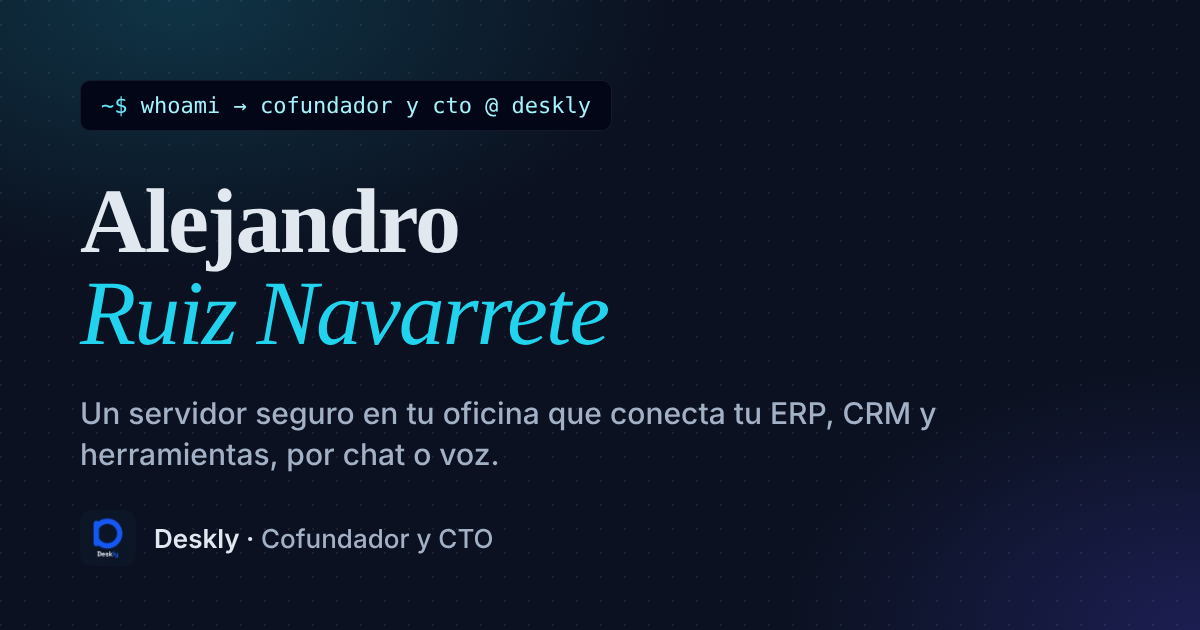
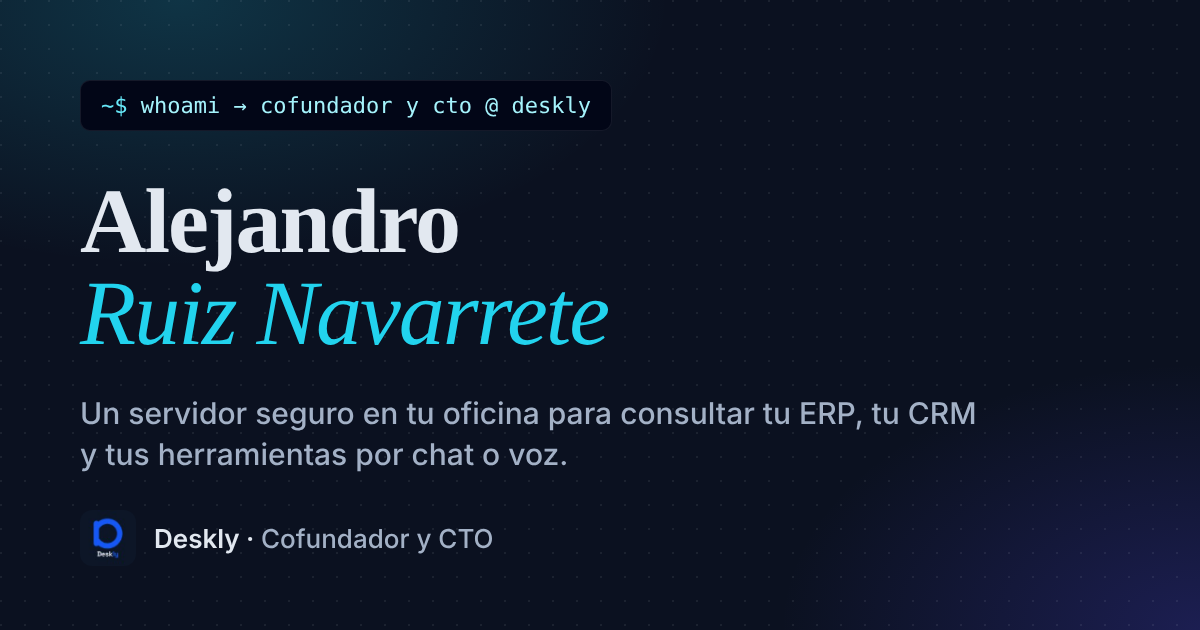
Microweb from €275/month; copy audit and rewrite (EN + ES)
- Microweb price: from €275/month (was €85)
- Fix semantic errors: Deskly described as a company (not "a server");
  ARUS role in past tense; role titles as roles ("Software Developer",
  "Perception Team Member"); remove invented "reply within a couple of days"
- Clearer, tighter copy in hero, about, experience, projects and contact
- Spanish: fix zeugma in about, avoid repetitions, "webs" instead of
  "landing pages", "correo" instead of "email"
- English: Seville instead of Sevilla
- Social preview images: clearer subtitle

Claude-Session: https://claude.ai/code/session_01F42sAvTLFGFSus6a51VpG9

Changed region(s): [[0.0617, 0.6937, 0.4625, 0.754], [0.4625, 0.6333, 0.8325, 0.6937]]

diff --git a/es/index.html b/es/index.html
@@ -4,7 +4,7 @@
 <meta charset="UTF-8">
 <meta name="viewport" content="width=device-width, initial-scale=1.0">
 <title>Alejandro Ruiz Navarrete — Cofundador y CTO de Deskly</title>
-<meta name="description" content="Alejandro Ruiz Navarrete — Cofundador y CTO de Deskly, el servidor seguro en tu oficina que conecta tu ERP, CRM y herramientas para consultar y ejecutar tareas por chat o voz. Desarrollador de software en Sevilla.">
+<meta name="description" content="Alejandro Ruiz Navarrete, desarrollador de software en Sevilla y cofundador y CTO de Deskly: un servidor seguro instalado en tu oficina que conecta tu ERP, tu CRM y el resto de tus herramientas para consultar datos y ejecutar tareas por chat o voz.">
 <meta name="author" content="Alejandro Ruiz Navarrete">
 <meta name="theme-color" content="#F8FAFC" media="(prefers-color-scheme: light)">
 <meta name="theme-color" content="#0B1120" media="(prefers-color-scheme: dark)">
@@ -22,7 +22,7 @@
 <meta property="og:locale" content="es_ES">
 <meta property="og:locale:alternate" content="en_US">
 <meta property="og:title" content="Alejandro Ruiz Navarrete — Cofundador y CTO de Deskly">
-<meta property="og:description" content="Construyendo Deskly: un servidor seguro dentro de tu oficina que conecta tu ERP, CRM y herramientas. Consulta y ejecuta tareas por chat o voz; tus datos nunca salen de tu red.">
+<meta property="og:description" content="Cofundador y CTO de Deskly: un servidor seguro en tu oficina que conecta tu ERP, tu CRM y el resto de tus herramientas. Consulta datos y ejecuta tareas por chat o voz; tus datos nunca salen de tu red.">
 <meta property="og:image" content="https://portfolio-arn.netlify.app/assets/img/og-image-es.png">
 <meta property="og:image:width" content="1200">
 <meta property="og:image:height" content="630">
@@ -61,7 +61,7 @@
     "@type": "Organization",
     "name": "Deskly",
     "url": "https://desklyy.com",
-    "description": "Servidor seguro instalado en la empresa que conecta ERP, CRM y cualquier herramienta para consultar y ejecutar tareas por chat o voz, sin que los datos salgan de la red."
+    "description": "Startup que instala en cada empresa un servidor seguro conectado a su ERP, su CRM y el resto de sus herramientas, para consultar datos y ejecutar tareas por chat o voz sin que la información salga de su red."
   },
   "address": { "@type": "PostalAddress", "addressLocality": "Sevilla", "addressCountry": "ES" },
   "email": "mailto:ruiz.navarrete.alejandro@gmail.com",
@@ -114,7 +114,7 @@
 
     <h1 class="hero-name">Alejandro<br><em>Ruiz Navarrete</em></h1>
     <p class="hero-role">Cofundador y CTO @ Deskly · Desarrollador de software · Sevilla</p>
-    <p class="hero-sub">Construyo cosas que funcionan: desde servidores privados que permiten a las empresas hablar con su ERP y CRM por chat o voz, hasta percepción para coches de carreras autónomos y landing pages para negocios locales.</p>
+    <p class="hero-sub">Construyo software que funciona en el mundo real: hoy, servidores privados que permiten a las empresas hablar con su ERP y su CRM por chat o voz; antes, percepción para un coche de carreras autónomo y webs para negocios locales.</p>
 
     <div class="hero-links">
       <a href="#projects" class="btn btn-primary">Ver mi trabajo <span aria-hidden="true">→</span></a>
@@ -123,7 +123,7 @@
 
     <ul class="now-strip" aria-label="En qué estoy ahora">
       <li><span class="now-dot" aria-hidden="true"></span><strong>Deskly</strong> Cofundador y CTO</li>
-      <li><span class="now-dot" aria-hidden="true"></span><strong>Club de Algoritmia</strong> Desarrollo de software</li>
+      <li><span class="now-dot" aria-hidden="true"></span><strong>Club de Algoritmia</strong> Desarrollador de software</li>
       <li><span class="now-dot" aria-hidden="true"></span><strong>Microweb</strong> Cofundador</li>
     </ul>
   </div>
@@ -134,10 +134,10 @@
     <p class="section-label">01 · Sobre mí</p>
     <div class="about-grid">
       <div class="about-text reveal">
-        <h2 id="about-title">Pensamiento riguroso, convertido en producto real.</h2>
-        <p>Soy desarrollador de software en Sevilla. Me gustan los problemas que están entre la teoría rigurosa y los resultados prácticos, y convertirlos en cosas que la gente usa de verdad.</p>
-        <p>Hoy soy <strong>cofundador y CTO de <a href="https://desklyy.com" target="_blank" rel="noopener">Deskly</a></strong>: un servidor seguro que instalamos dentro de cada empresa y que conecta su ERP, CRM y cualquier otra herramienta, para que el equipo consulte datos y ejecute tareas por chat o voz, sin que sus datos salgan nunca de su red.</p>
-        <p>Además hago desarrollo de algoritmos en el <strong>Club de Algoritmia</strong>, trabajé en percepción con LiDAR para el equipo de competición autónoma <strong>ARUS</strong> y cofundé <strong>Microweb</strong>, un pequeño estudio que crea landing pages para negocios locales.</p>
+        <h2 id="about-title">Rigor técnico, producto real.</h2>
+        <p>Soy desarrollador de software en Sevilla. Disfruto con los problemas en los que la teoría rigurosa se encuentra con los resultados prácticos, y lo que más me motiva es convertir la solución en algo que la gente use de verdad.</p>
+        <p>Hoy soy <strong>cofundador y CTO de <a href="https://desklyy.com" target="_blank" rel="noopener">Deskly</a></strong>, una startup que instala un servidor seguro dentro de cada empresa. Lo conectamos a su ERP, su CRM y el resto de sus herramientas para que el equipo consulte información y ejecute tareas por chat o voz, sin que nada salga de su red.</p>
+        <p>Además, desarrollo algoritmos en el <strong>Club de Algoritmia</strong> de la Universidad de Sevilla. Antes trabajé en la percepción con LiDAR del coche autónomo de <strong>ARUS</strong>, un equipo de Formula Student, y cofundé <strong>Microweb</strong>, un pequeño estudio que crea webs para negocios locales.</p>
       </div>
 
       <div class="skills-block reveal">
@@ -201,7 +201,7 @@
         <div class="tl-body">
           <h3>Cofundador y CTO <span class="tl-at">· <a href="https://desklyy.com" target="_blank" rel="noopener">Deskly</a></span></h3>
           <p class="tl-meta">Jornada completa · España · Híbrido</p>
-          <p>Cofundé Deskly y dirijo su tecnología: el servidor seguro que instalamos dentro de cada empresa, las integraciones con ERP, CRM y otras herramientas, y la capa de chat y voz para consultar datos y automatizar tareas.</p>
+          <p>Cofundé Deskly y dirijo su tecnología: el servidor seguro que instalamos en cada cliente, las integraciones con su ERP, su CRM y otras herramientas, y la interfaz de chat y voz con la que se consultan datos y se automatizan tareas.</p>
           <ul class="tl-tags"><li class="tag">Servidores</li><li class="tag">Automatización</li><li class="tag">Integraciones</li><li class="tag">On-premise</li></ul>
         </div>
       </li>
@@ -209,9 +209,9 @@
         <div class="tl-when"><time datetime="2025-09">sept. 2025</time> — actualidad</div>
         <img class="tl-logo tl-logo-light" src="../assets/img/logos/algo.png" alt="" width="44" height="44" loading="lazy">
         <div class="tl-body">
-          <h3>Desarrollo de software <span class="tl-at">· Club de Algoritmia de la Universidad de Sevilla</span></h3>
+          <h3>Desarrollador de software <span class="tl-at">· Club de Algoritmia de la Universidad de Sevilla</span></h3>
           <p class="tl-meta">Sevilla · Presencial</p>
-          <p>Desarrollo de algoritmos y resolución de problemas. Exploro áreas como estructuras de datos, algoritmia avanzada, optimización y programación competitiva.</p>
+          <p>Diseño de algoritmos y resolución de problemas: estructuras de datos, algoritmia avanzada, optimización y programación competitiva.</p>
           <ul class="tl-tags"><li class="tag">Python</li><li class="tag">Ingeniería de datos</li><li class="tag">Algoritmia</li><li class="tag">Optimización</li></ul>
         </div>
       </li>
@@ -219,9 +219,9 @@
         <div class="tl-when"><time datetime="2026-01">ene. 2026</time> — <time datetime="2026-09">sept. 2026</time></div>
         <img class="tl-logo" src="../assets/img/logos/arus.png" alt="" width="44" height="44" loading="lazy">
         <div class="tl-body">
-          <h3>Miembro de Percepción <span class="tl-at">· ARUS Andalucía Racing Team</span></h3>
+          <h3>Miembro del departamento de Percepción <span class="tl-at">· ARUS Andalucía Racing Team</span></h3>
           <p class="tl-meta">Jornada parcial · Sevilla · Híbrido</p>
-          <p>Algoritmos de visión por computador y procesamiento de datos LiDAR: extracción de nubes de puntos para detectar los conos del circuito y construir el mapa del entorno que usa nuestro coche autónomo para conducir. También desarrollé un pipeline de optimización bayesiana para ajustar automáticamente los parámetros del SLAM.</p>
+          <p>Desarrollé algoritmos de visión por computador y de procesamiento de datos LiDAR: extracción de nubes de puntos para detectar los conos del circuito y construir el mapa con el que se orienta el coche autónomo del equipo. También creé un sistema de optimización bayesiana que ajusta automáticamente los parámetros del SLAM.</p>
           <ul class="tl-tags"><li class="tag">Python</li><li class="tag">C++</li><li class="tag">ROS2</li><li class="tag">LiDAR</li><li class="tag">Visión por computador</li><li class="tag">SLAM</li></ul>
         </div>
       </li>
@@ -248,23 +248,23 @@
               <h3>Deskly</h3>
             </div>
           </div>
-          <p class="project-lead">Deskly conecta tu ERP, CRM y cualquier herramienta en un servidor seguro en tu oficina. Consulta y ejecuta tareas por chat o voz con privacidad total: tus datos nunca salen de tu red.</p>
+          <p class="project-lead">Deskly conecta tu ERP, tu CRM y el resto de tus herramientas a un servidor seguro instalado en tu oficina. Consulta datos y ejecuta tareas por chat o voz con privacidad total: tus datos nunca salen de tu red.</p>
 
           <ul class="feature-grid">
             <li>
               <svg viewBox="0 0 24 24" aria-hidden="true"><rect x="3" y="4" width="18" height="7" rx="2"/><rect x="3" y="13" width="18" height="7" rx="2"/><path d="M7 7.5h.01M7 16.5h.01"/></svg>
               <strong>Servidor en tu empresa</strong>
-              <span>Lo instalamos dentro de la empresa: nada corre en la nube de otro.</span>
+              <span>Instalado en tus oficinas, dentro de tu propia red.</span>
             </li>
             <li>
               <svg viewBox="0 0 24 24" aria-hidden="true"><path d="M9 7H6a3 3 0 0 0 0 6h3M15 7h3a3 3 0 0 1 0 6h-3M8 10h8"/><path d="M12 17v4"/></svg>
-              <strong>ERP, CRM y lo que uses</strong>
-              <span>Un único punto conectado a los sistemas que ya usa el negocio.</span>
+              <strong>ERP, CRM y más</strong>
+              <span>Un único punto de acceso a los sistemas que ya utilizas.</span>
             </li>
             <li>
               <svg viewBox="0 0 24 24" aria-hidden="true"><rect x="9" y="3" width="6" height="11" rx="3"/><path d="M5 11a7 7 0 0 0 14 0M12 18v3"/></svg>
               <strong>Chat y voz</strong>
-              <span>Pregunta y lanza tareas en lenguaje natural.</span>
+              <span>Pregunta y lanza tareas escribiendo o hablando.</span>
             </li>
             <li>
               <svg viewBox="0 0 24 24" aria-hidden="true"><rect x="5" y="11" width="14" height="10" rx="2"/><path d="M8 11V7a4 4 0 0 1 8 0v4"/></svg>
@@ -285,7 +285,7 @@
             <span class="project-status">2026</span>
           </div>
           <h3>SLAM Gaussian Process Tuner</h3>
-          <p>Pipeline de optimización bayesiana que ajusta automáticamente los parámetros del SLAM de un coche autónomo de Formula Student. Un nodo ROS2 en C++ calcula el ATE frente al ground truth y un script en Python dirige el bucle de optimización con <code>gp_minimize</code> de scikit-optimize.</p>
+          <p>Sistema de optimización bayesiana que ajusta automáticamente los parámetros del SLAM de un coche autónomo de Formula Student. Un nodo ROS2 en C++ mide el error absoluto de trayectoria (ATE) respecto a la trayectoria real, y un script en Python dirige el bucle de optimización con <code>gp_minimize</code> de scikit-optimize.</p>
           <ul class="project-stack" aria-label="Tecnologías">
             <li class="tag">Python</li>
             <li class="tag">C++</li>
@@ -307,7 +307,7 @@
             <span class="project-status"><span class="status-dot" aria-hidden="true"></span>Activo</span>
           </div>
           <h3>Microweb</h3>
-          <p>Un estudio web que cofundé y que crea landing pages rápidas y asequibles para negocios locales. Diseño a medida, integración con WhatsApp, pensadas para móvil y publicadas en menos de una semana desde 85 €.</p>
+          <p>Estudio web que cofundé y que crea webs rápidas y a medida para negocios locales: pensadas para móvil, con integración de WhatsApp y publicadas en menos de una semana. Desde 275 €/mes.</p>
           <ul class="project-stack" aria-label="Tecnologías">
             <li class="tag">HTML</li>
             <li class="tag">CSS</li>
@@ -331,9 +331,9 @@
     <p class="section-label">04 · Contacto</p>
     <div class="contact-inner">
       <div class="contact-text reveal">
-        <h2 id="contact-title">Trabajemos juntos en algo.</h2>
-        <p>¿Quieres ver Deskly funcionando en tu empresa, tienes un proyecto web o una colaboración técnica en mente? Escríbeme; suelo responder en un par de días.</p>
-        <button type="button" class="btn btn-ghost copy-email" data-email="ruiz.navarrete.alejandro@gmail.com">Copiar email</button>
+        <h2 id="contact-title">Hablemos.</h2>
+        <p>¿Quieres ver Deskly funcionando en tu empresa o tienes en mente una web o una colaboración técnica? Escríbeme.</p>
+        <button type="button" class="btn btn-ghost copy-email" data-email="ruiz.navarrete.alejandro@gmail.com">Copiar correo</button>
         <span class="copy-status" role="status" aria-live="polite"></span>
       </div>
 
@@ -344,7 +344,7 @@
               <svg viewBox="0 0 24 24"><rect x="3" y="5" width="18" height="14" rx="2"/><path d="m3 7 9 6 9-6"/></svg>
             </span>
             <span class="contact-option-text">
-              <strong>Email</strong>
+              <strong>Correo</strong>
               <span>ruiz.navarrete.alejandro@gmail.com</span>
             </span>
           </a>

diff --git a/index.html b/index.html
@@ -4,7 +4,7 @@
 <meta charset="UTF-8">
 <meta name="viewport" content="width=device-width, initial-scale=1.0">
 <title>Alejandro Ruiz Navarrete — Co-founder &amp; CTO at Deskly</title>
-<meta name="description" content="Alejandro Ruiz Navarrete — Co-founder &amp; CTO at Deskly, the secure on-premise server that connects your ERP, CRM and tools so you can query and run tasks by chat or voice. Software developer in Sevilla.">
+<meta name="description" content="Alejandro Ruiz Navarrete, software developer in Seville and co-founder &amp; CTO of Deskly: a secure server installed in your office that connects your ERP, CRM and other tools so you can query data and run tasks by chat or voice.">
 <meta name="author" content="Alejandro Ruiz Navarrete">
 <meta name="theme-color" content="#F8FAFC" media="(prefers-color-scheme: light)">
 <meta name="theme-color" content="#0B1120" media="(prefers-color-scheme: dark)">
@@ -22,7 +22,7 @@
 <meta property="og:locale" content="en_US">
 <meta property="og:locale:alternate" content="es_ES">
 <meta property="og:title" content="Alejandro Ruiz Navarrete — Co-founder &amp; CTO at Deskly">
-<meta property="og:description" content="Building Deskly: a secure server inside your office that connects your ERP, CRM and tools — query and run tasks by chat or voice, with your data never leaving your network.">
+<meta property="og:description" content="Co-founder &amp; CTO of Deskly: a secure server inside your office that connects your ERP, CRM and other tools. Query data and run tasks by chat or voice — your data never leaves your network.">
 <meta property="og:image" content="https://portfolio-arn.netlify.app/assets/img/og-image.png">
 <meta property="og:image:width" content="1200">
 <meta property="og:image:height" content="630">
@@ -67,9 +67,9 @@
     "@type": "Organization",
     "name": "Deskly",
     "url": "https://desklyy.com",
-    "description": "Secure on-premise server that connects ERP, CRM and any tool, letting teams query data and run tasks by chat or voice with their data never leaving their network."
+    "description": "Startup that installs a secure server inside each company, connecting its ERP, CRM and other tools so teams can query data and run tasks by chat or voice without their data leaving their network."
   },
-  "address": { "@type": "PostalAddress", "addressLocality": "Sevilla", "addressCountry": "ES" },
+  "address": { "@type": "PostalAddress", "addressLocality": "Seville", "addressCountry": "ES" },
   "email": "mailto:ruiz.navarrete.alejandro@gmail.com",
   "knowsAbout": ["Software Engineering", "Servers", "Automation", "Algorithms", "Computer Vision", "LiDAR", "SLAM", "Bayesian Optimization", "Web Development"],
   "sameAs": [
@@ -119,8 +119,8 @@
     </div>
 
     <h1 class="hero-name">Alejandro<br><em>Ruiz Navarrete</em></h1>
-    <p class="hero-role">Co-founder &amp; CTO @ Deskly · Software Developer · Sevilla</p>
-    <p class="hero-sub">I build things that work — from private servers that let companies talk to their ERP and CRM by chat or voice, to perception for autonomous race cars, to landing pages for local businesses.</p>
+    <p class="hero-role">Co-founder &amp; CTO @ Deskly · Software Developer · Seville</p>
+    <p class="hero-sub">I build software that works in the real world: today, private servers that let companies talk to their ERP and CRM by chat or voice; before that, perception for an autonomous race car and websites for local businesses.</p>
 
     <div class="hero-links">
       <a href="#projects" class="btn btn-primary">See my work <span aria-hidden="true">→</span></a>
@@ -129,7 +129,7 @@
 
     <ul class="now-strip" aria-label="What I'm doing now">
       <li><span class="now-dot" aria-hidden="true"></span><strong>Deskly</strong> Co-founder &amp; CTO</li>
-      <li><span class="now-dot" aria-hidden="true"></span><strong>Club de Algoritmia</strong> Software Development</li>
+      <li><span class="now-dot" aria-hidden="true"></span><strong>Club de Algoritmia</strong> Software Developer</li>
       <li><span class="now-dot" aria-hidden="true"></span><strong>Microweb</strong> Co-founder</li>
     </ul>
   </div>
@@ -140,10 +140,10 @@
     <p class="section-label">01 · About</p>
     <div class="about-grid">
       <div class="about-text reveal">
-        <h2 id="about-title">Rigorous thinking, shipped as real products.</h2>
-        <p>I'm a software developer from Sevilla. I like problems that sit at the intersection of rigorous theory and practical results — and turning them into things people actually use.</p>
-        <p>Today I'm the <strong>co-founder and CTO of <a href="https://desklyy.com" target="_blank" rel="noopener">Deskly</a></strong>: a secure server we install inside each company that connects their ERP, CRM and any other tool, so teams can query data and run tasks by chat or voice — without their data ever leaving their network.</p>
-        <p>I also do algorithm development at the <strong>Club de Algoritmia</strong>, worked on LiDAR perception for the <strong>ARUS</strong> autonomous racing team, and co-founded <strong>Microweb</strong>, a small studio building landing pages for local businesses.</p>
+        <h2 id="about-title">Rigorous thinking, real products.</h2>
+        <p>I'm a software developer based in Seville. I enjoy problems where rigorous theory meets practical results, and I care most about turning the solution into something people actually use.</p>
+        <p>Today I'm the <strong>co-founder and CTO of <a href="https://desklyy.com" target="_blank" rel="noopener">Deskly</a></strong>, a startup that installs a secure server inside each company. It connects their ERP, CRM and other tools so teams can query information and run tasks by chat or voice, without a single byte leaving their network.</p>
+        <p>I also develop algorithms at the <strong>Club de Algoritmia</strong> (University of Seville). Previously I worked on LiDAR perception for the autonomous car of <strong>ARUS</strong>, a Formula Student team, and I co-founded <strong>Microweb</strong>, a small studio that builds websites for local businesses.</p>
       </div>
 
       <div class="skills-block reveal">
@@ -207,7 +207,7 @@
         <div class="tl-body">
           <h3>Co-founder &amp; CTO <span class="tl-at">· <a href="https://desklyy.com" target="_blank" rel="noopener">Deskly</a></span></h3>
           <p class="tl-meta">Full-time · Spain · Hybrid</p>
-          <p>Co-founded Deskly and lead its technology: the secure server we install inside each company, the integrations with ERP, CRM and other tools, and the chat &amp; voice layer to query data and automate tasks.</p>
+          <p>I co-founded Deskly and lead its technology: the secure server we install at each client, the integrations with their ERP, CRM and other tools, and the chat and voice interface used to query data and automate tasks.</p>
           <ul class="tl-tags"><li class="tag">Servers</li><li class="tag">Automation</li><li class="tag">Integrations</li><li class="tag">On-premise</li></ul>
         </div>
       </li>
@@ -215,9 +215,9 @@
         <div class="tl-when"><time datetime="2025-09">Sep 2025</time> — Present</div>
         <img class="tl-logo tl-logo-light" src="assets/img/logos/algo.png" alt="" width="44" height="44" loading="lazy">
         <div class="tl-body">
-          <h3>Software Development <span class="tl-at">· Club de Algoritmia de la Universidad de Sevilla</span></h3>
-          <p class="tl-meta">Sevilla · On-site</p>
-          <p>Algorithm development and problem solving. I explore areas such as data structures, advanced algorithms, optimization and competitive programming.</p>
+          <h3>Software Developer <span class="tl-at">· Club de Algoritmia, University of Seville</span></h3>
+          <p class="tl-meta">Seville · On-site</p>
+          <p>Algorithm design and problem solving across data structures, advanced algorithms, optimization and competitive programming.</p>
           <ul class="tl-tags"><li class="tag">Python</li><li class="tag">Data engineering</li><li class="tag">Algorithms</li><li class="tag">Optimization</li></ul>
         </div>
       </li>
@@ -225,9 +225,9 @@
         <div class="tl-when"><time datetime="2026-01">Jan 2026</time> — <time datetime="2026-09">Sep 2026</time></div>
         <img class="tl-logo" src="assets/img/logos/arus.png" alt="" width="44" height="44" loading="lazy">
         <div class="tl-body">
-          <h3>Member of Perception <span class="tl-at">· ARUS Andalucía Racing Team</span></h3>
-          <p class="tl-meta">Part-time · Sevilla · Hybrid</p>
-          <p>Computer vision algorithms and LiDAR data processing: extracting point clouds to detect the track cones and building the environment map our autonomous car uses to drive. Also built a Bayesian-optimization pipeline to auto-tune SLAM parameters.</p>
+          <h3>Perception Team Member <span class="tl-at">· ARUS Andalucía Racing Team</span></h3>
+          <p class="tl-meta">Part-time · Seville · Hybrid</p>
+          <p>Developed computer vision algorithms and LiDAR processing: extracting point clouds to detect the track cones and build the map the team's autonomous car uses to navigate. I also built a Bayesian optimization pipeline that tunes the SLAM parameters automatically.</p>
           <ul class="tl-tags"><li class="tag">Python</li><li class="tag">C++</li><li class="tag">ROS2</li><li class="tag">LiDAR</li><li class="tag">Computer vision</li><li class="tag">SLAM</li></ul>
         </div>
       </li>
@@ -254,27 +254,27 @@
               <h3>Deskly</h3>
             </div>
           </div>
-          <p class="project-lead">Deskly connects your ERP, CRM and any other tool on a secure server inside your office. Query data and run tasks by chat or voice, with total privacy: your data never leaves your network.</p>
+          <p class="project-lead">Deskly connects your ERP, your CRM and the rest of your tools to a secure server installed in your office. Query data and run tasks by chat or voice, with complete privacy: your data never leaves your network.</p>
 
           <ul class="feature-grid">
             <li>
               <svg viewBox="0 0 24 24" aria-hidden="true"><rect x="3" y="4" width="18" height="7" rx="2"/><rect x="3" y="13" width="18" height="7" rx="2"/><path d="M7 7.5h.01M7 16.5h.01"/></svg>
               <strong>On-premise server</strong>
-              <span>We install it inside the company — nothing runs in someone else's cloud.</span>
+              <span>Installed at your premises, inside your own network.</span>
             </li>
             <li>
               <svg viewBox="0 0 24 24" aria-hidden="true"><path d="M9 7H6a3 3 0 0 0 0 6h3M15 7h3a3 3 0 0 1 0 6h-3M8 10h8"/><path d="M12 17v4"/></svg>
-              <strong>ERP, CRM &amp; any tool</strong>
-              <span>One place connected to the systems the business already uses.</span>
+              <strong>ERP, CRM &amp; more</strong>
+              <span>A single access point to the systems you already use.</span>
             </li>
             <li>
               <svg viewBox="0 0 24 24" aria-hidden="true"><rect x="9" y="3" width="6" height="11" rx="3"/><path d="M5 11a7 7 0 0 0 14 0M12 18v3"/></svg>
               <strong>Chat &amp; voice</strong>
-              <span>Ask questions and trigger tasks in plain language.</span>
+              <span>Ask questions and trigger tasks by typing or speaking.</span>
             </li>
             <li>
               <svg viewBox="0 0 24 24" aria-hidden="true"><rect x="5" y="11" width="14" height="10" rx="2"/><path d="M8 11V7a4 4 0 0 1 8 0v4"/></svg>
-              <strong>Total privacy</strong>
+              <strong>Complete privacy</strong>
               <span>Your data never leaves your network.</span>
             </li>
           </ul>
@@ -291,7 +291,7 @@
             <span class="project-status">2026</span>
           </div>
           <h3>SLAM Gaussian Process Tuner</h3>
-          <p>Bayesian optimization pipeline that auto-tunes SLAM parameters for an autonomous Formula Student car. A C++ ROS2 node computes ATE against ground truth; a Python script drives the optimization loop with scikit-optimize's <code>gp_minimize</code>.</p>
+          <p>Bayesian optimization pipeline that automatically tunes the SLAM parameters of an autonomous Formula Student car. A C++ ROS2 node measures the absolute trajectory error (ATE) against ground truth, and a Python script drives the optimization loop with scikit-optimize's <code>gp_minimize</code>.</p>
           <ul class="project-stack" aria-label="Tech stack">
             <li class="tag">Python</li>
             <li class="tag">C++</li>
@@ -313,7 +313,7 @@
             <span class="project-status"><span class="status-dot" aria-hidden="true"></span>Active</span>
           </div>
           <h3>Microweb</h3>
-          <p>A web studio I co-founded that builds fast, affordable landing pages for local businesses. Custom design, WhatsApp integration, mobile-first, deployed in under a week from €85.</p>
+          <p>A web studio I co-founded that builds fast, custom websites for local businesses: mobile-first, with WhatsApp integration, and live in under a week. From €275/month.</p>
           <ul class="project-stack" aria-label="Tech stack">
             <li class="tag">HTML</li>
             <li class="tag">CSS</li>
@@ -337,8 +337,8 @@
     <p class="section-label">04 · Contact</p>
     <div class="contact-inner">
       <div class="contact-text reveal">
-        <h2 id="contact-title">Let's work on something together.</h2>
-        <p>Want to see Deskly running in your company, have a web project, or a technical collaboration in mind? Reach out — I usually reply within a couple of days.</p>
+        <h2 id="contact-title">Let's talk.</h2>
+        <p>Want to see Deskly running in your company, or have a website or a technical collaboration in mind? Drop me a message.</p>
         <button type="button" class="btn btn-ghost copy-email" data-email="ruiz.navarrete.alejandro@gmail.com">Copy email address</button>
         <span class="copy-status" role="status" aria-live="polite"></span>
       </div>

diff --git a/assets/js/main.js b/assets/js/main.js
@@ -16,7 +16,7 @@
       ],
       toLight: 'Switch to light mode', toDark: 'Switch to dark mode',
       openMenu: 'Open menu', closeMenu: 'Close menu',
-      copied: '✓ Copied ',
+      copied: '✓ Email copied: ',
     },
     es: {
       phrases: [
@@ -27,7 +27,7 @@
       ],
       toLight: 'Cambiar a modo claro', toDark: 'Cambiar a modo oscuro',
       openMenu: 'Abrir menú', closeMenu: 'Cerrar menú',
-      copied: '✓ Copiado ',
+      copied: '✓ Correo copiado: ',
     },
   };
   var T = STR[lang] || STR.en;
